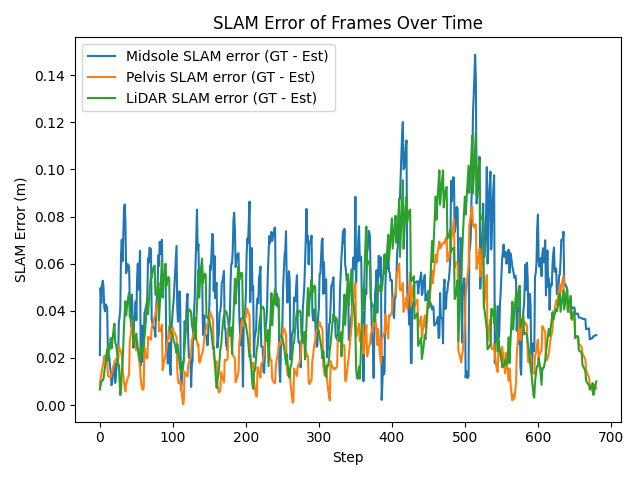
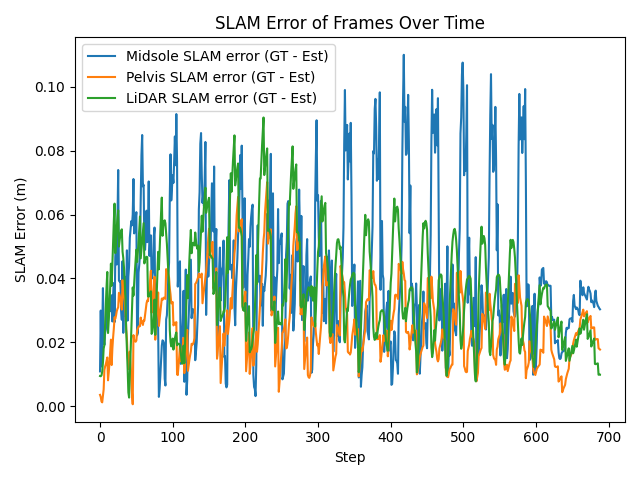
update

diff --git a/source/ros2/isaac-ros/g1_standalone_v2_14dof_nav_heuristic_test_offset.py b/source/ros2/isaac-ros/g1_standalone_v2_14dof_nav_heuristic_test_offset.py
@@ -204,6 +204,28 @@ class G1:
             self.joint_indices.append(full_joint_names.index(joint_seq))
         self.joint_indices = np.array(self.joint_indices)
 
+        self.default_joint_indices = []
+        for joint_seq in [
+                'waist_yaw_joint',
+                'left_shoulder_pitch_joint',
+                'right_shoulder_pitch_joint',
+                'left_shoulder_roll_joint',
+                'right_shoulder_roll_joint',
+                'left_shoulder_yaw_joint',
+                'right_shoulder_yaw_joint',
+                'left_elbow_joint',
+                'right_elbow_joint',
+                'left_wrist_roll_joint',
+                'right_wrist_roll_joint',
+                'left_wrist_pitch_joint',
+                'right_wrist_pitch_joint',
+                'left_wrist_yaw_joint',
+                'right_wrist_yaw_joint'
+            ]:
+            assert joint_seq in full_joint_names, f"Joint {joint_seq} not found in robot's joint names"
+            self.default_joint_indices.append(full_joint_names.index(joint_seq))
+        self.default_joint_indices = np.array(self.default_joint_indices)
+
         joints_default_position = []
         for joint_name in full_joint_names:
             if joint_name in default_joint_angles.keys():
@@ -243,7 +265,7 @@ parser.add_argument("--physics_dt", type=float, default=1/200, help="Physics sim
 parser.add_argument("--rendering_dt", type=float, default=1/100, help="Rendering time step")
 # Policy parameters
 # parser.add_argument("--policy-path", type=str, default="source/ros2/isaac-ros/assets/0818_f3/exported/policy.pt", help="Path to the policy file")
-parser.add_argument("--policy-path", type=str, default="source/ros2/isaac-ros/assets/0820_f5/exported/policy.pt", help="Path to the policy file")
+parser.add_argument("--policy-path", type=str, default="/workspace/isaaclab/source/ros2/isaac-ros/assets/0911_l1_20k.pt", help="Path to the policy file")
 parser.add_argument("--nav-policy-path", type=str, default="/workspace/isaaclab/source/ros2/isaac-ros/assets/weights/navigation/navigation_policy_0623.pt", help="Path to the policy file")
 parser.add_argument("--action-scale", type=float, default=0.5, help="Scale for the action commands")
 parser.add_argument("--period", type=float, default=0.8, help="Phase command period")
@@ -549,6 +571,8 @@ slam_node = SlamSubscriber()
 nodes.append(slam_node)
 lidar_tf_node = MidsoleTFPublisher()
 nodes.append(lidar_tf_node)
+target_tf_pub = TargetTFPublisher()
+nodes.append(target_tf_pub)
 
 # =============================== Parameters ===============================
 lidar_iter = 0
@@ -591,7 +615,7 @@ pelvis_diffs = []
 lidar_diffs = []
 
 # =============================== Hyper-parameters ===============================
-free_iter = 2000
+free_iter = 1000
 
 # heading_target = -math.pi
 LAST_ITER = 32000
@@ -601,7 +625,7 @@ LAST_ITER = 32000
 
 target_pose_list = np.array([
     # go forward
-    [1.0, 0.0, 0.0, 0.0],
+    [1.0, 0.2, 0.0, math.pi/4],
     # # go backward
     # [0.0, 0.0, 0.0, 0.0],
     # # go left
@@ -629,7 +653,7 @@ stop_counter = 0
 ## pelvis <> midsole offset
 pelvis_to_midsole_offset_after_locomotion = {
     # "x": -0.0069,
-    "x": -0.00,
+    "x": -0.00, # -0.04
     # "y": -0.0194,
     "y": -0.0094,
     "yaw": 0.0061,
@@ -639,7 +663,7 @@ SLOW_BOUND = 0.4
 MAX_LIN_VEL = 0.15
 MAX_ANG_VEL = 0.3
 NAV_HZ = 5
-ERROR_THRESHOLD = 0.04  # m
+ERROR_THRESHOLD = 0.03  # m
 NUM_AVG = 30
 # =============================== Main iteration ===============================
 is_first_released = False
@@ -697,7 +721,7 @@ while simulation_app.is_running():
         target_pos_w = target_pose_list[current_target_pose_idx][:3].copy()
 
         target_midsole_quat = np.array([np.cos(heading_target/2), 0.0, 0.0, np.sin(heading_target/2)]).astype(np.float32)
-
+        target_tf_pub.publish_tf(target_pos_w, target_midsole_quat, simtime)
         offset = quat_apply(target_midsole_quat, 
                     np.array(
                        [pelvis_to_midsole_offset_after_locomotion["x"], 
@@ -707,7 +731,7 @@ while simulation_app.is_running():
                     )
         # print("offset : ", offset)
         
-        if True:
+        if False:
             # Offset 보정 적용
             pelvis_target_pos_w = target_pos_w + offset
             pelvis_heading_target = heading_target + pelvis_to_midsole_offset_after_locomotion["yaw"]
@@ -747,10 +771,13 @@ while simulation_app.is_running():
         heading_error_bs = np.vstack((heading_error_bs, heading_error.reshape(1,1)))
         slam_errors = np.vstack((slam_errors, np.linalg.norm(base_pos[:2] - est_pelvis_pos[:2]).reshape((1,1))))
         pos_command_bs = np.vstack((pos_command_bs, np.linalg.norm(pos_command_b[:2]).reshape((1,1))))
+
+        task_vec = target_pos_w - midsole_pos_w
+        task_vec_b = quat_rotate_inverse(yaw_quat(base_quat).astype(np.float32), task_vec.astype(np.float32))
         
         task_translation_errors = np.vstack((task_translation_errors, np.linalg.norm(target_pos_w[:2] - midsole_pos_w[:2]).reshape((1,1))))
-        task_x_errors = np.vstack((task_x_errors, np.array(target_pos_w[0] - midsole_pos_w[0]).reshape((1,1))))
-        task_y_errors = np.vstack((task_y_errors, np.array(target_pos_w[1] - midsole_pos_w[1]).reshape((1,1))))
+        task_x_errors = np.vstack((task_x_errors, np.array(task_vec_b[0]).reshape((1,1))))
+        task_y_errors = np.vstack((task_y_errors, np.array(task_vec_b[1]).reshape((1,1))))
         midsole_forward_w = quat_apply(midsole_quat_w.astype(np.float32), np.array([1., 0., 0.]).astype(np.float32))
         midsole_heading_w = np.arctan2(forward_w[1], forward_w[0])
         midsole_heading_error = wrap_to_pi(np.array([heading_target]).astype(np.float32) - np.array([heading_w]).astype(np.float32))
@@ -809,18 +836,18 @@ while simulation_app.is_running():
             # vel_command_b[:2] = np.clip(np.sign(pos_command_b[:2]) * MAX_LIN_VEL * np.sqrt(np.abs(pos_command_b[:2] / SLOW_BOUND)), -MAX_LIN_VEL, MAX_LIN_VEL)
             # X > 0
             if pos_command_b[0] >= 0.:
-                vel_command_b[0] = np.clip(MAX_LIN_VEL * np.sqrt(np.abs(pos_command_b[0] / SLOW_BOUND)), 0.0, MAX_LIN_VEL)
+                vel_command_b[0] = np.clip(0.08 * np.sqrt(np.abs(pos_command_b[0] / 0.8)), 0.0, 0.08)
             # X < 0
             if pos_command_b[0] < 0.:
-                vel_command_b[0] = np.clip(-0.2 * np.sqrt(np.abs(pos_command_b[0] / SLOW_BOUND)), -0.2, 0.0)
+                vel_command_b[0] = np.clip(-0.4 * np.sqrt(np.abs(pos_command_b[0] / 0.1)), -0.4, 0.0)
             # Y > 0
             if pos_command_b[1] >= 0.:
-                vel_command_b[1] = np.clip(MAX_LIN_VEL * np.sqrt(np.abs(pos_command_b[1] / SLOW_BOUND)), 0.0, MAX_LIN_VEL)
+                vel_command_b[1] = np.clip(0.1 * np.sqrt(np.abs(pos_command_b[1] / 0.2)), 0.0, 0.1)
             # Y < 0
             if pos_command_b[1] < 0.:
-                vel_command_b[1] = np.clip(-MAX_LIN_VEL * np.sqrt(np.abs(pos_command_b[1] / SLOW_BOUND)), -MAX_LIN_VEL, 0.0)
+                vel_command_b[1] = np.clip(-0.2 * np.sqrt(np.abs(pos_command_b[1] / 0.2)), -0.2, 0.0)
             
-            vel_command_b[2] = np.clip(np.sign(heading_error) * MAX_ANG_VEL * np.sqrt(np.abs(heading_error / SLOW_BOUND)), -MAX_ANG_VEL, MAX_ANG_VEL)
+            vel_command_b[2] = np.clip(np.sign(heading_error) * MAX_ANG_VEL * np.sqrt(np.abs(heading_error / SLOW_BOUND)), -0.2, 0.2)
 
         if prev_action is None:
             prev_action = np.zeros(14)
@@ -841,6 +868,9 @@ while simulation_app.is_running():
         action = policy(obs_tensor).detach().numpy().squeeze()
 
         joint_targets[g1.joint_indices] = (action * args.action_scale).copy()
+        if "0901_f2" in args.policy_path:
+            joint_targets[g1.default_joint_indices] = g1.default_pos[g1.default_joint_indices]
+
         if fixed == True:
             joint_targets = np.zeros(29)
             prev_action = np.zeros(14)

diff --git a/source/ros2/isaac-ros/g1_standalone_v2_14dof.py b/source/ros2/isaac-ros/g1_standalone_v2_14dof.py
@@ -199,6 +199,28 @@ class G1:
             self.joint_indices.append(full_joint_names.index(joint_seq))
         self.joint_indices = np.array(self.joint_indices)
 
+        self.default_joint_indices = []
+        for joint_seq in [
+                'waist_yaw_joint',
+                'left_shoulder_pitch_joint',
+                'right_shoulder_pitch_joint',
+                'left_shoulder_roll_joint',
+                'right_shoulder_roll_joint',
+                'left_shoulder_yaw_joint',
+                'right_shoulder_yaw_joint',
+                'left_elbow_joint',
+                'right_elbow_joint',
+                'left_wrist_roll_joint',
+                'right_wrist_roll_joint',
+                'left_wrist_pitch_joint',
+                'right_wrist_pitch_joint',
+                'left_wrist_yaw_joint',
+                'right_wrist_yaw_joint'
+            ]:
+            assert joint_seq in full_joint_names, f"Joint {joint_seq} not found in robot's joint names"
+            self.default_joint_indices.append(full_joint_names.index(joint_seq))
+        self.default_joint_indices = np.array(self.default_joint_indices)
+
         joints_default_position = []
         for joint_name in full_joint_names:
             if joint_name in default_joint_angles.keys():
@@ -526,8 +548,8 @@ free_iter = 2000
 
 heading_target = 0.0
 # heading_target = -math.pi
-# vel_command_b[0] = 0.1
-vel_command_b[1] = -0.1
+vel_command_b[0] = 0.1
+# vel_command_b[1] = -0.1
 # stop_iter = 4000
 # LAST_ITER = 5000 + 2000
 LAST_ITER = 5000
@@ -628,6 +650,9 @@ while simulation_app.is_running():
         action = policy(obs_tensor).detach().numpy().squeeze()
 
         joint_targets[g1.joint_indices] = (action * args.action_scale).copy()
+        if "0901_f2" in args.policy_path:
+            joint_targets[g1.default_joint_indices] = g1.default_pos[g1.default_joint_indices]
+            
         prev_action[:] = action.copy()
 
         if fixed == True:

diff --git a/source/ros2/isaac-ros/utils/target_pub_node.py b/source/ros2/isaac-ros/utils/target_pub_node.py
@@ -1,0 +1,52 @@
+#!/usr/bin/env python3
+
+import rclpy
+from rclpy.node import Node
+from nav_msgs.msg import Odometry
+from geometry_msgs.msg import Pose, Twist, Point, Quaternion, Vector3
+from builtin_interfaces.msg import Time
+import numpy as np
+from tf2_ros import TransformBroadcaster, TransformStamped
+from builtin_interfaces.msg import Time as TimeMsg
+from rclpy.parameter import Parameter
+from .functions import to_ros_time_from_seconds
+from tf2_ros.buffer import Buffer
+from tf2_ros.transform_listener import TransformListener
+import tf2_geometry_msgs  # 변환 연산 지원
+import numpy as np
+from tf_transformations import quaternion_matrix, translation_matrix, concatenate_matrices, inverse_matrix, quaternion_from_matrix
+class TargetTFPublisher(Node):
+    def __init__(self):
+        super().__init__('tf_pub',
+        )
+        self.tf_broadcaster = TransformBroadcaster(self)
+        self.tf_buffer = Buffer()
+        self.tf_listener = TransformListener(self.tf_buffer, self, spin_thread=True)
+
+    def publish_tf(self, target_pos, target_quat, simtime):
+
+        # Publish the transform
+        t = TransformStamped()
+        t.header.stamp = to_ros_time_from_seconds(simtime)
+        t.header.frame_id = "odom"
+        t.child_frame_id = "target_frame"
+        t.transform.translation.x = float(target_pos[0])
+        t.transform.translation.y = float(target_pos[1])
+        t.transform.translation.z = float(target_pos[2])
+        t.transform.rotation.x = float(target_quat[1])
+        t.transform.rotation.y = float(target_quat[2])
+        t.transform.rotation.z = float(target_quat[3])
+        t.transform.rotation.w = float(target_quat[0])
+
+        self.tf_broadcaster.sendTransform(t)
+
+
+def main():
+    rclpy.init()
+    node = TargetTFPublisher()
+    rclpy.spin(node)
+    node.destroy_node()
+    rclpy.shutdown()
+
+if __name__ == '__main__':
+    main()

diff --git a/source/isaaclab/isaaclab/envs/mdp/actions/joint_actions.py b/source/isaaclab/isaaclab/envs/mdp/actions/joint_actions.py
@@ -170,6 +170,29 @@ class JointPositionAction(JointAction):
             self._asset.set_joint_effort_target(torque_rfi, joint_ids=self._joint_ids)
 
 
+class DefaultJointPositionAction(JointAction):
+    cfg: actions_cfg.DefaultJointPositionActionCfg
+    """The configuration of the action term."""
+
+    def __init__(self, cfg: actions_cfg.DefaultJointPositionActionCfg, env: ManagerBasedEnv):
+        # initialize the action term
+        super().__init__(cfg, env)
+        # use default joint positions as offset
+        self._offset = self._asset.data.default_joint_pos[:, self._joint_ids].clone()
+
+    @property
+    def action_dim(self) -> int:
+        return 0
+    
+    def process_actions(self, actions: torch.Tensor):
+        
+        self._processed_actions = self._offset
+
+    def apply_actions(self):
+        # set position targets
+        self._asset.set_joint_position_target(self._offset, joint_ids=self._joint_ids)
+        
+
 class RelativeJointPositionAction(JointAction):
     r"""Joint action term that applies the processed actions to the articulation's joints as relative position commands.
 

diff --git a/source/isaaclab_tasks/isaaclab_tasks/manager_based/locomotion_task/locomotion_env_cfg.py b/source/isaaclab_tasks/isaaclab_tasks/manager_based/locomotion_task/locomotion_env_cfg.py
@@ -176,7 +176,16 @@ class ActionsCfg:
         randomize_torque_rfi=True,
         rfi_lim_scale=0.1,  # Scale factor for the random torque R
     )
-
+    
+    # fixed_joint_pos = mdp.DefaultJointPositionActionCfg(
+    #     asset_name="robot",
+    #     joint_names=[
+    #         "waist_yaw_joint",
+    #         ".*_shoulder_.*",
+    #         ".*_wrist_.*",
+    #         ".*_elbow_.*"
+    #     ]
+    # )
 
 @configclass
 class EventCfg:
@@ -428,10 +437,10 @@ class G1LocomotionEnvCfg_PLAY(G1LocomotionEnvCfg):
 
         # set command for play.
 
-        # self.commands.base_velocity.ranges.lin_vel_x = (0.1, 0.1)
+        self.commands.base_velocity.ranges.lin_vel_x = (0.1, 0.1)
         # self.commands.base_velocity.ranges.lin_vel_y = (0.5, 0.5)
         # self.commands.base_velocity.ranges.ang_vel_z = (1., 1.)
-        self.commands.base_velocity.ranges.lin_vel_x = (0.0, 0.0)
+        # self.commands.base_velocity.ranges.lin_vel_x = (0.0, 0.0)
         self.commands.base_velocity.ranges.lin_vel_y = (0.0, 0.0)
         self.commands.base_velocity.ranges.ang_vel_z = (-1.0, 1.0)
 

diff --git a/source/isaaclab/isaaclab/envs/mdp/actions/actions_cfg.py b/source/isaaclab/isaaclab/envs/mdp/actions/actions_cfg.py
@@ -56,6 +56,15 @@ class JointPositionActionCfg(JointActionCfg):
     """Additional scaling factor for the random torque RFI."""
 
 @configclass
+class DefaultJointPositionActionCfg(JointActionCfg):
+    """Configuration for the joint position action term.
+
+    See :class:`JointPositionAction` for more details.
+    """
+
+    class_type: type[ActionTerm] = joint_actions.DefaultJointPositionAction
+
+@configclass
 class RelativeJointPositionActionCfg(JointActionCfg):
     """Configuration for the relative joint position action term.
 

diff --git a/source/isaaclab_tasks/isaaclab_tasks/manager_based/locomotion_task/mdp/rewards.py b/source/isaaclab_tasks/isaaclab_tasks/manager_based/locomotion_task/mdp/rewards.py
@@ -1027,7 +1027,7 @@ def penalize_feet_z_force(
     contact_sensor: ContactSensor = env.scene.sensors[sensor_cfg.name]
     feet_forces = th.abs(contact_sensor.data.net_forces_w[:, sensor_cfg.body_ids, 2] - threshold)
 
-    ic(feet_forces)
+    # ic(feet_forces)
     feet_forces_over_threshold = th.clamp(feet_forces, min=0.0)
     
     return th.sum(feet_forces_over_threshold, dim=-1)

diff --git a/source/ros2/isaac-ros/utils/__init__.py b/source/ros2/isaac-ros/utils/__init__.py
@@ -19,3 +19,5 @@ from .slam_subscribe_node import *
 from .lidar_tf_node import *
 
 from .midsole_tf_node import *
+
+from .target_pub_node import *
